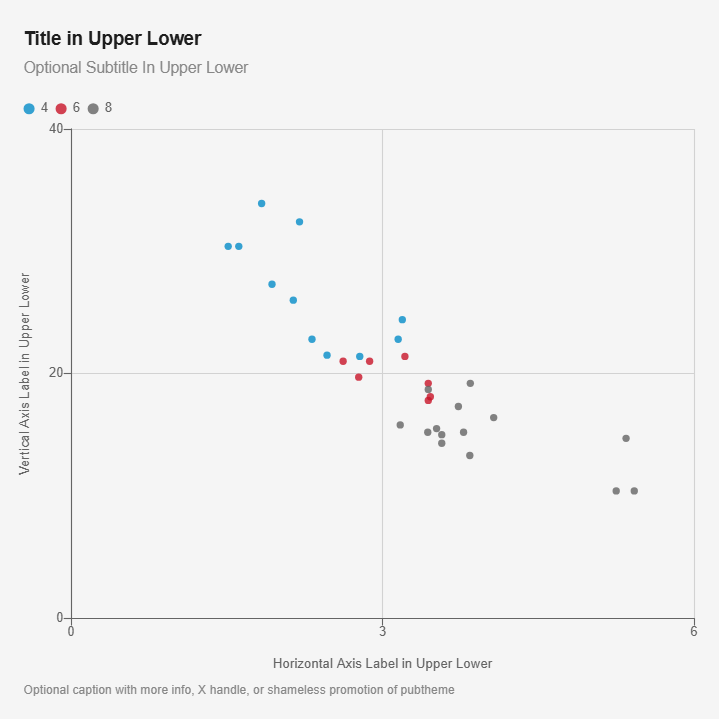
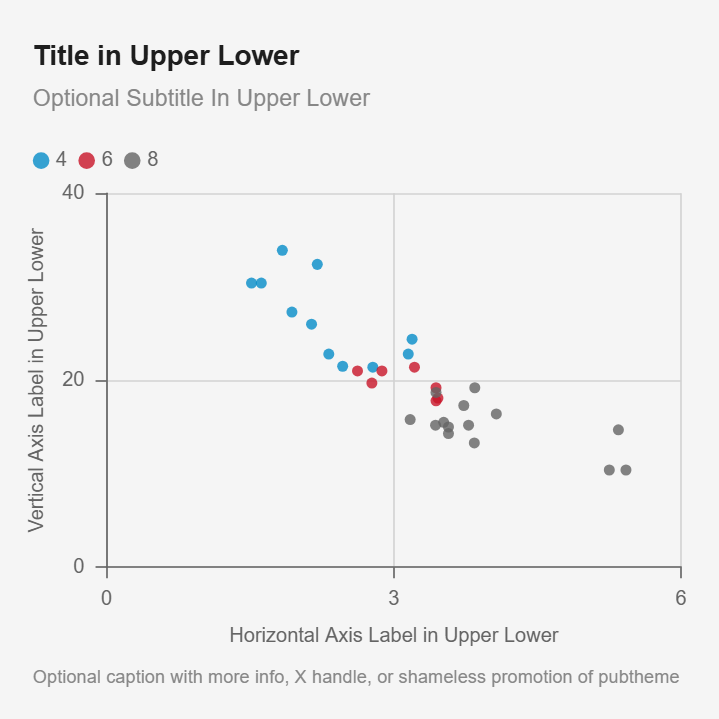
fix: rebuild 720px echarts scatter at base_size 15 to match 6in/12pt

diff --git a/img/e-theme-pub-scatter.html b/img/e-theme-pub-scatter.html
@@ -1467,9 +1467,9 @@ if (HTMLWidgets.shinyMode) {
 <body style="background-color: rgba(245,245,245,1.000000);">
 <div id="htmlwidget_container">
   <style>html,body{margin:0;padding:0;overflow:hidden;background-color:#F5F5F5 !important;}.html-widget,.echarts4r,.html-widget-static-bound{background-color:#F5F5F5 !important;border:0;outline:0;box-shadow:none;}</style>
-  <div id="htmlwidget-968097ab1948c3d9720f" style="width:720px;height:720px;" class="echarts4r html-widget"></div>
+  <div id="htmlwidget-c464e772ca5b1a7aeb6a" style="width:720px;height:720px;" class="echarts4r html-widget"></div>
 </div>
-<script type="application/json" data-for="htmlwidget-968097ab1948c3d9720f">{"x":{"theme":"custom","tl":false,"draw":true,"renderer":"canvas","events":[],"buttons":[],"opts":{"yAxis":[{"show":true,"name":"Vertical Axis Label in Upper Lower","axisLine":{"show":true,"lineStyle":{"color":"#646464","width":1.10236220472441}},"axisTick":{"show":true,"length":7.407407407407408,"lineStyle":{"color":"#646464","width":1.10236220472441}},"axisLabel":{"show":true,"color":"#646464","fontSize":13.33333333333333,"fontFamily":"sans-serif","margin":7.407407407407408,"formatter":"function(value){ var n = Number(value); if (isNaN(n)) return value; return n.toLocaleString('en-US'); }"},"nameLocation":"middle","nameGap":39.25925925925927,"nameTextStyle":{"color":"#646464","fontSize":13.33333333333333,"fontFamily":"sans-serif"},"splitLine":{"show":true,"lineStyle":{"color":"#D2D2D2","width":1.10236220472441}},"splitArea":{"show":false},"min":0,"max":40,"interval":20,"splitNumber":2}],"xAxis":[{"type":"value","name":"Horizontal Axis Label in Upper Lower","axisLine":{"show":true,"lineStyle":{"color":"#646464","width":1.10236220472441}},"axisTick":{"show":true,"length":7.407407407407408,"lineStyle":{"color":"#646464","width":1.10236220472441}},"axisLabel":{"show":true,"color":"#646464","fontSize":13.33333333333333,"fontFamily":"sans-serif","margin":7.407407407407408,"formatter":"function(value){ var n = Number(value); if (isNaN(n)) return value; return n.toLocaleString('en-US'); }"},"nameLocation":"middle","nameGap":39.25925925925927,"nameTextStyle":{"color":"#646464","fontSize":13.33333333333333,"fontFamily":"sans-serif"},"splitLine":{"show":true,"lineStyle":{"color":"#D2D2D2","width":1.10236220472441}},"splitArea":{"show":false},"min":0,"max":6,"interval":3,"splitNumber":2}],"legend":{"data":["4","6","8"],"orient":"horizontal","left":18.51851851851852,"top":97.03703703703704,"itemWidth":13.33333333333333,"itemHeight":11.11111111111111,"itemGap":7.407407407407408,"icon":"circle","textStyle":{"color":"#646464","fontSize":13.33333333333333,"fontFamily":"sans-serif"}},"series":[{"data":[{"value":[1.513,30.4]},{"value":[1.615,30.4]},{"value":[1.835,33.9]},{"value":[1.935,27.3]},{"value":[2.14,26]},{"value":[2.2,32.4]},{"value":[2.32,22.8]},{"value":[2.465,21.5]},{"value":[2.78,21.4]},{"value":[3.15,22.8]},{"value":[3.19,24.4]}],"name":"4","type":"scatter","symbol":"circle","coordinateSystem":"cartesian2d","yAxisIndex":0,"xAxisIndex":0,"symbolSize":7.349081364829396},{"data":[{"value":[2.62,21]},{"value":[2.77,19.7]},{"value":[2.875,21]},{"value":[3.215,21.4]},{"value":[3.44,19.2]},{"value":[3.44,17.8]},{"value":[3.46,18.1]}],"name":"6","type":"scatter","symbol":"circle","coordinateSystem":"cartesian2d","yAxisIndex":0,"xAxisIndex":0,"symbolSize":7.349081364829396},{"data":[{"value":[3.17,15.8]},{"value":[3.435,15.2]},{"value":[3.44,18.7]},{"value":[3.52,15.5]},{"value":[3.57,14.3]},{"value":[3.57,15]},{"value":[3.73,17.3]},{"value":[3.78,15.2]},{"value":[3.84,13.3]},{"value":[3.845,19.2]},{"value":[4.07,16.4]},{"value":[5.25,10.4]},{"value":[5.345,14.7]},{"value":[5.424,10.4]}],"name":"8","type":"scatter","symbol":"circle","coordinateSystem":"cartesian2d","yAxisIndex":0,"xAxisIndex":0,"symbolSize":7.349081364829396}],"title":[{"text":"Title in Upper Lower","subtext":"Optional Subtitle In Upper Lower","left":18.51851851851852,"top":25.92592592592593,"itemGap":11.11111111111111,"textStyle":{"fontFamily":"sans-serif","fontSize":18.51851851851852,"color":"#1E1E1E","fontWeight":"bold"},"subtextStyle":{"fontFamily":"sans-serif","fontSize":15.55555555555556,"color":"#878787","fontWeight":"normal"}},{"text":"Optional caption with more info, X handle, or shameless promotion of pubtheme","left":18.51851851851852,"bottom":18.51851851851852,"textStyle":{"fontFamily":"sans-serif","fontSize":12.22222222222222,"color":"#878787","fontWeight":"normal"}}],"color":["#058CC8","#C81428","#646464","#82B4D2","#E68C8C","#035478","#780C18","#D2D2D2"],"backgroundColor":"#F5F5F5","textStyle":{"fontFamily":"sans-serif","fontSize":13.33333333333333,"color":"#646464"},"grid":[{"left":71.11111111111111,"right":25.92592592592593,"top":128.8888888888889,"bottom":101.8518518518519,"containLabel":false,"borderColor":"#646464","borderWidth":0}],"tooltip":{"trigger":"item","backgroundColor":"#F5F5F5","borderColor":"#D2D2D2","borderWidth":1,"textStyle":{"color":"#646464","fontSize":13.33333333333333,"fontFamily":"sans-serif"}}},"dispose":true,"theme2":true,"customTheme":"{\"color\":[\"#058CC8\",\"#C81428\",\"#646464\",\"#82B4D2\",\"#E68C8C\",\"#035478\",\"#780C18\",\"#D2D2D2\"],\"backgroundColor\":\"#F5F5F5\",\"textStyle\":{\"fontFamily\":\"sans-serif\",\"fontSize\":13.3333,\"color\":\"#646464\"},\"title\":{\"left\":18.5185,\"itemGap\":11.1111,\"textStyle\":{\"fontFamily\":\"sans-serif\",\"fontSize\":18.5185,\"color\":\"#1E1E1E\",\"fontWeight\":\"bold\"},\"subtextStyle\":{\"fontFamily\":\"sans-serif\",\"fontSize\":15.5556,\"color\":\"#878787\",\"fontWeight\":\"normal\"}},\"legend\":{\"orient\":\"horizontal\",\"left\":18.5185,\"itemWidth\":13.3333,\"itemHeight\":11.1111,\"itemGap\":7.4074,\"textStyle\":{\"color\":\"#646464\",\"fontSize\":13.3333,\"fontFamily\":\"sans-serif\"}},\"tooltip\":{\"backgroundColor\":\"#F5F5F5\",\"borderColor\":\"#D2D2D2\",\"borderWidth\":1,\"textStyle\":{\"color\":\"#646464\",\"fontSize\":13.3333,\"fontFamily\":\"sans-serif\"}},\"grid\":{\"containLabel\":true,\"borderColor\":\"#646464\",\"borderWidth\":0},\"categoryAxis\":{\"axisLine\":{\"show\":true,\"lineStyle\":{\"color\":\"#646464\",\"width\":1.1024}},\"axisTick\":{\"show\":true,\"length\":7.4074,\"lineStyle\":{\"color\":\"#646464\",\"width\":1.1024}},\"axisLabel\":{\"color\":\"#646464\",\"fontSize\":13.3333,\"fontFamily\":\"sans-serif\",\"margin\":7.4074},\"nameLocation\":\"middle\",\"nameGap\":39.2593,\"nameTextStyle\":{\"color\":\"#646464\",\"fontSize\":13.3333,\"fontFamily\":\"sans-serif\"},\"splitLine\":{\"show\":false,\"lineStyle\":{\"color\":\"#D2D2D2\",\"width\":1.1024}},\"splitArea\":{\"show\":false}},\"valueAxis\":{\"axisLine\":{\"show\":true,\"lineStyle\":{\"color\":\"#646464\",\"width\":1.1024}},\"axisTick\":{\"show\":true,\"length\":7.4074,\"lineStyle\":{\"color\":\"#646464\",\"width\":1.1024}},\"axisLabel\":{\"color\":\"#646464\",\"fontSize\":13.3333,\"fontFamily\":\"sans-serif\",\"margin\":7.4074},\"nameLocation\":\"middle\",\"nameGap\":39.2593,\"nameTextStyle\":{\"color\":\"#646464\",\"fontSize\":13.3333,\"fontFamily\":\"sans-serif\"},\"splitLine\":{\"show\":true,\"lineStyle\":{\"color\":\"#D2D2D2\",\"width\":1.1024}},\"splitArea\":{\"show\":false}},\"logAxis\":{\"axisLine\":{\"show\":true,\"lineStyle\":{\"color\":\"#646464\",\"width\":1.1024}},\"axisTick\":{\"show\":true,\"length\":7.4074,\"lineStyle\":{\"color\":\"#646464\",\"width\":1.1024}},\"axisLabel\":{\"color\":\"#646464\",\"fontSize\":13.3333,\"fontFamily\":\"sans-serif\",\"margin\":7.4074},\"nameLocation\":\"middle\",\"nameGap\":39.2593,\"nameTextStyle\":{\"color\":\"#646464\",\"fontSize\":13.3333,\"fontFamily\":\"sans-serif\"},\"splitLine\":{\"show\":true,\"lineStyle\":{\"color\":\"#D2D2D2\",\"width\":1.1024}},\"splitArea\":{\"show\":false}},\"timeAxis\":{\"axisLine\":{\"show\":true,\"lineStyle\":{\"color\":\"#646464\",\"width\":1.1024}},\"axisTick\":{\"show\":true,\"length\":7.4074,\"lineStyle\":{\"color\":\"#646464\",\"width\":1.1024}},\"axisLabel\":{\"color\":\"#646464\",\"fontSize\":13.3333,\"fontFamily\":\"sans-serif\",\"margin\":7.4074},\"nameLocation\":\"middle\",\"nameGap\":39.2593,\"nameTextStyle\":{\"color\":\"#646464\",\"fontSize\":13.3333,\"fontFamily\":\"sans-serif\"},\"splitLine\":{\"show\":true,\"lineStyle\":{\"color\":\"#D2D2D2\",\"width\":1.1024}},\"splitArea\":{\"show\":false}},\"line\":{\"symbol\":\"none\",\"lineStyle\":{\"width\":3.1496},\"smooth\":false},\"bar\":{\"itemStyle\":{\"borderWidth\":0,\"borderColor\":\"transparent\"}},\"scatter\":{\"symbol\":\"circle\",\"symbolSize\":7.3491},\"effectScatter\":{\"symbol\":\"circle\",\"symbolSize\":7.3491},\"heatmap\":{\"itemStyle\":{\"borderColor\":\"#1E1E1E\",\"borderWidth\":0.4}},\"graph\":{\"color\":[\"#058CC8\",\"#C81428\",\"#646464\",\"#82B4D2\",\"#E68C8C\",\"#035478\",\"#780C18\",\"#D2D2D2\"]},\"visualMap\":{\"color\":[\"#058CC8\",\"#D2D2D2\"],\"textStyle\":{\"color\":\"#646464\",\"fontSize\":13.3333,\"fontFamily\":\"sans-serif\"}},\"toolbox\":{\"iconStyle\":{\"borderColor\":\"#646464\"},\"emphasis\":{\"iconStyle\":{\"borderColor\":\"#1E1E1E\"}}}}","theme_name":"custom"},"evals":["opts.yAxis.0.axisLabel.formatter","opts.xAxis.0.axisLabel.formatter"],"jsHooks":[]}</script>
-<script type="application/htmlwidget-sizing" data-for="htmlwidget-968097ab1948c3d9720f">{"viewer":{"width":720,"height":720,"padding":0,"fill":false},"browser":{"width":720,"height":720,"padding":0,"fill":false}}</script>
+<script type="application/json" data-for="htmlwidget-c464e772ca5b1a7aeb6a">{"x":{"theme":"custom","tl":false,"draw":true,"renderer":"canvas","events":[],"buttons":[],"opts":{"yAxis":[{"show":true,"name":"Vertical Axis Label in Upper Lower","axisLine":{"show":true,"lineStyle":{"color":"#646464","width":1.653543307086614}},"axisTick":{"show":true,"length":11.11111111111111,"lineStyle":{"color":"#646464","width":1.653543307086614}},"axisLabel":{"show":true,"color":"#646464","fontSize":20,"fontFamily":"sans-serif","margin":22.22222222222222,"formatter":"function(value){ var n = Number(value); if (isNaN(n)) return value; return n.toLocaleString('en-US'); }"},"nameLocation":"middle","nameGap":58.88888888888889,"nameTextStyle":{"color":"#646464","fontSize":20,"fontFamily":"sans-serif"},"splitLine":{"show":true,"lineStyle":{"color":"#D2D2D2","width":1.653543307086614}},"splitArea":{"show":false},"min":0,"max":40,"interval":20,"splitNumber":2}],"xAxis":[{"type":"value","name":"Horizontal Axis Label in Upper Lower","axisLine":{"show":true,"lineStyle":{"color":"#646464","width":1.653543307086614}},"axisTick":{"show":true,"length":11.11111111111111,"lineStyle":{"color":"#646464","width":1.653543307086614}},"axisLabel":{"show":true,"color":"#646464","fontSize":20,"fontFamily":"sans-serif","margin":22.22222222222222,"formatter":"function(value){ var n = Number(value); if (isNaN(n)) return value; return n.toLocaleString('en-US'); }"},"nameLocation":"middle","nameGap":58.88888888888889,"nameTextStyle":{"color":"#646464","fontSize":20,"fontFamily":"sans-serif"},"splitLine":{"show":true,"lineStyle":{"color":"#D2D2D2","width":1.653543307086614}},"splitArea":{"show":false},"min":0,"max":6,"interval":3,"splitNumber":2}],"legend":{"data":["4","6","8"],"orient":"horizontal","left":27.77777777777778,"top":145.5555555555556,"itemWidth":20,"itemHeight":16.66666666666666,"itemGap":11.11111111111111,"icon":"circle","textStyle":{"color":"#646464","fontSize":20,"fontFamily":"sans-serif"}},"series":[{"data":[{"value":[1.513,30.4]},{"value":[1.615,30.4]},{"value":[1.835,33.9]},{"value":[1.935,27.3]},{"value":[2.14,26]},{"value":[2.2,32.4]},{"value":[2.32,22.8]},{"value":[2.465,21.5]},{"value":[2.78,21.4]},{"value":[3.15,22.8]},{"value":[3.19,24.4]}],"name":"4","type":"scatter","symbol":"circle","coordinateSystem":"cartesian2d","yAxisIndex":0,"xAxisIndex":0,"symbolSize":11.02362204724409},{"data":[{"value":[2.62,21]},{"value":[2.77,19.7]},{"value":[2.875,21]},{"value":[3.215,21.4]},{"value":[3.44,19.2]},{"value":[3.44,17.8]},{"value":[3.46,18.1]}],"name":"6","type":"scatter","symbol":"circle","coordinateSystem":"cartesian2d","yAxisIndex":0,"xAxisIndex":0,"symbolSize":11.02362204724409},{"data":[{"value":[3.17,15.8]},{"value":[3.435,15.2]},{"value":[3.44,18.7]},{"value":[3.52,15.5]},{"value":[3.57,14.3]},{"value":[3.57,15]},{"value":[3.73,17.3]},{"value":[3.78,15.2]},{"value":[3.84,13.3]},{"value":[3.845,19.2]},{"value":[4.07,16.4]},{"value":[5.25,10.4]},{"value":[5.345,14.7]},{"value":[5.424,10.4]}],"name":"8","type":"scatter","symbol":"circle","coordinateSystem":"cartesian2d","yAxisIndex":0,"xAxisIndex":0,"symbolSize":11.02362204724409}],"title":[{"text":"Title in Upper Lower","subtext":"Optional Subtitle In Upper Lower","left":27.77777777777778,"top":38.88888888888889,"itemGap":16.66666666666666,"textStyle":{"fontFamily":"sans-serif","fontSize":27.77777777777778,"color":"#1E1E1E","fontWeight":"bold"},"subtextStyle":{"fontFamily":"sans-serif","fontSize":23.33333333333333,"color":"#878787","fontWeight":"normal"}},{"text":"Optional caption with more info, X handle, or shameless promotion of pubtheme","left":27.77777777777778,"bottom":27.77777777777778,"textStyle":{"fontFamily":"sans-serif","fontSize":18.33333333333333,"color":"#878787","fontWeight":"normal"}}],"color":["#058CC8","#C81428","#646464","#82B4D2","#E68C8C","#035478","#780C18","#D2D2D2"],"backgroundColor":"#F5F5F5","textStyle":{"fontFamily":"sans-serif","fontSize":20,"color":"#646464"},"grid":[{"left":106.6666666666667,"right":38.88888888888889,"top":193.3333333333333,"bottom":152.7777777777778,"containLabel":false,"borderColor":"#646464","borderWidth":0}],"tooltip":{"trigger":"item","backgroundColor":"#F5F5F5","borderColor":"#D2D2D2","borderWidth":1,"textStyle":{"color":"#646464","fontSize":20,"fontFamily":"sans-serif"}}},"dispose":true,"theme2":true,"customTheme":"{\"color\":[\"#058CC8\",\"#C81428\",\"#646464\",\"#82B4D2\",\"#E68C8C\",\"#035478\",\"#780C18\",\"#D2D2D2\"],\"backgroundColor\":\"#F5F5F5\",\"textStyle\":{\"fontFamily\":\"sans-serif\",\"fontSize\":20,\"color\":\"#646464\"},\"title\":{\"left\":27.7778,\"itemGap\":16.6667,\"textStyle\":{\"fontFamily\":\"sans-serif\",\"fontSize\":27.7778,\"color\":\"#1E1E1E\",\"fontWeight\":\"bold\"},\"subtextStyle\":{\"fontFamily\":\"sans-serif\",\"fontSize\":23.3333,\"color\":\"#878787\",\"fontWeight\":\"normal\"}},\"legend\":{\"orient\":\"horizontal\",\"left\":27.7778,\"itemWidth\":20,\"itemHeight\":16.6667,\"itemGap\":11.1111,\"textStyle\":{\"color\":\"#646464\",\"fontSize\":20,\"fontFamily\":\"sans-serif\"}},\"tooltip\":{\"backgroundColor\":\"#F5F5F5\",\"borderColor\":\"#D2D2D2\",\"borderWidth\":1,\"textStyle\":{\"color\":\"#646464\",\"fontSize\":20,\"fontFamily\":\"sans-serif\"}},\"grid\":{\"containLabel\":true,\"borderColor\":\"#646464\",\"borderWidth\":0},\"categoryAxis\":{\"axisLine\":{\"show\":true,\"lineStyle\":{\"color\":\"#646464\",\"width\":1.6535}},\"axisTick\":{\"show\":true,\"length\":11.1111,\"lineStyle\":{\"color\":\"#646464\",\"width\":1.6535}},\"axisLabel\":{\"color\":\"#646464\",\"fontSize\":20,\"fontFamily\":\"sans-serif\",\"margin\":22.2222},\"nameLocation\":\"middle\",\"nameGap\":58.8889,\"nameTextStyle\":{\"color\":\"#646464\",\"fontSize\":20,\"fontFamily\":\"sans-serif\"},\"splitLine\":{\"show\":false,\"lineStyle\":{\"color\":\"#D2D2D2\",\"width\":1.6535}},\"splitArea\":{\"show\":false}},\"valueAxis\":{\"axisLine\":{\"show\":true,\"lineStyle\":{\"color\":\"#646464\",\"width\":1.6535}},\"axisTick\":{\"show\":true,\"length\":11.1111,\"lineStyle\":{\"color\":\"#646464\",\"width\":1.6535}},\"axisLabel\":{\"color\":\"#646464\",\"fontSize\":20,\"fontFamily\":\"sans-serif\",\"margin\":22.2222},\"nameLocation\":\"middle\",\"nameGap\":58.8889,\"nameTextStyle\":{\"color\":\"#646464\",\"fontSize\":20,\"fontFamily\":\"sans-serif\"},\"splitLine\":{\"show\":true,\"lineStyle\":{\"color\":\"#D2D2D2\",\"width\":1.6535}},\"splitArea\":{\"show\":false}},\"logAxis\":{\"axisLine\":{\"show\":true,\"lineStyle\":{\"color\":\"#646464\",\"width\":1.6535}},\"axisTick\":{\"show\":true,\"length\":11.1111,\"lineStyle\":{\"color\":\"#646464\",\"width\":1.6535}},\"axisLabel\":{\"color\":\"#646464\",\"fontSize\":20,\"fontFamily\":\"sans-serif\",\"margin\":22.2222},\"nameLocation\":\"middle\",\"nameGap\":58.8889,\"nameTextStyle\":{\"color\":\"#646464\",\"fontSize\":20,\"fontFamily\":\"sans-serif\"},\"splitLine\":{\"show\":true,\"lineStyle\":{\"color\":\"#D2D2D2\",\"width\":1.6535}},\"splitArea\":{\"show\":false}},\"timeAxis\":{\"axisLine\":{\"show\":true,\"lineStyle\":{\"color\":\"#646464\",\"width\":1.6535}},\"axisTick\":{\"show\":true,\"length\":11.1111,\"lineStyle\":{\"color\":\"#646464\",\"width\":1.6535}},\"axisLabel\":{\"color\":\"#646464\",\"fontSize\":20,\"fontFamily\":\"sans-serif\",\"margin\":22.2222},\"nameLocation\":\"middle\",\"nameGap\":58.8889,\"nameTextStyle\":{\"color\":\"#646464\",\"fontSize\":20,\"fontFamily\":\"sans-serif\"},\"splitLine\":{\"show\":true,\"lineStyle\":{\"color\":\"#D2D2D2\",\"width\":1.6535}},\"splitArea\":{\"show\":false}},\"line\":{\"symbol\":\"none\",\"lineStyle\":{\"width\":4.7244},\"smooth\":false},\"bar\":{\"itemStyle\":{\"borderWidth\":0,\"borderColor\":\"transparent\"}},\"scatter\":{\"symbol\":\"circle\",\"symbolSize\":11.0236},\"effectScatter\":{\"symbol\":\"circle\",\"symbolSize\":11.0236},\"heatmap\":{\"itemStyle\":{\"borderColor\":\"#1E1E1E\",\"borderWidth\":0.4}},\"graph\":{\"color\":[\"#058CC8\",\"#C81428\",\"#646464\",\"#82B4D2\",\"#E68C8C\",\"#035478\",\"#780C18\",\"#D2D2D2\"]},\"visualMap\":{\"color\":[\"#058CC8\",\"#D2D2D2\"],\"textStyle\":{\"color\":\"#646464\",\"fontSize\":20,\"fontFamily\":\"sans-serif\"}},\"toolbox\":{\"iconStyle\":{\"borderColor\":\"#646464\"},\"emphasis\":{\"iconStyle\":{\"borderColor\":\"#1E1E1E\"}}}}","theme_name":"custom"},"evals":["opts.yAxis.0.axisLabel.formatter","opts.xAxis.0.axisLabel.formatter"],"jsHooks":[]}</script>
+<script type="application/htmlwidget-sizing" data-for="htmlwidget-c464e772ca5b1a7aeb6a">{"viewer":{"width":720,"height":720,"padding":0,"fill":false},"browser":{"width":720,"height":720,"padding":0,"fill":false}}</script>
 </body>
 </html>
